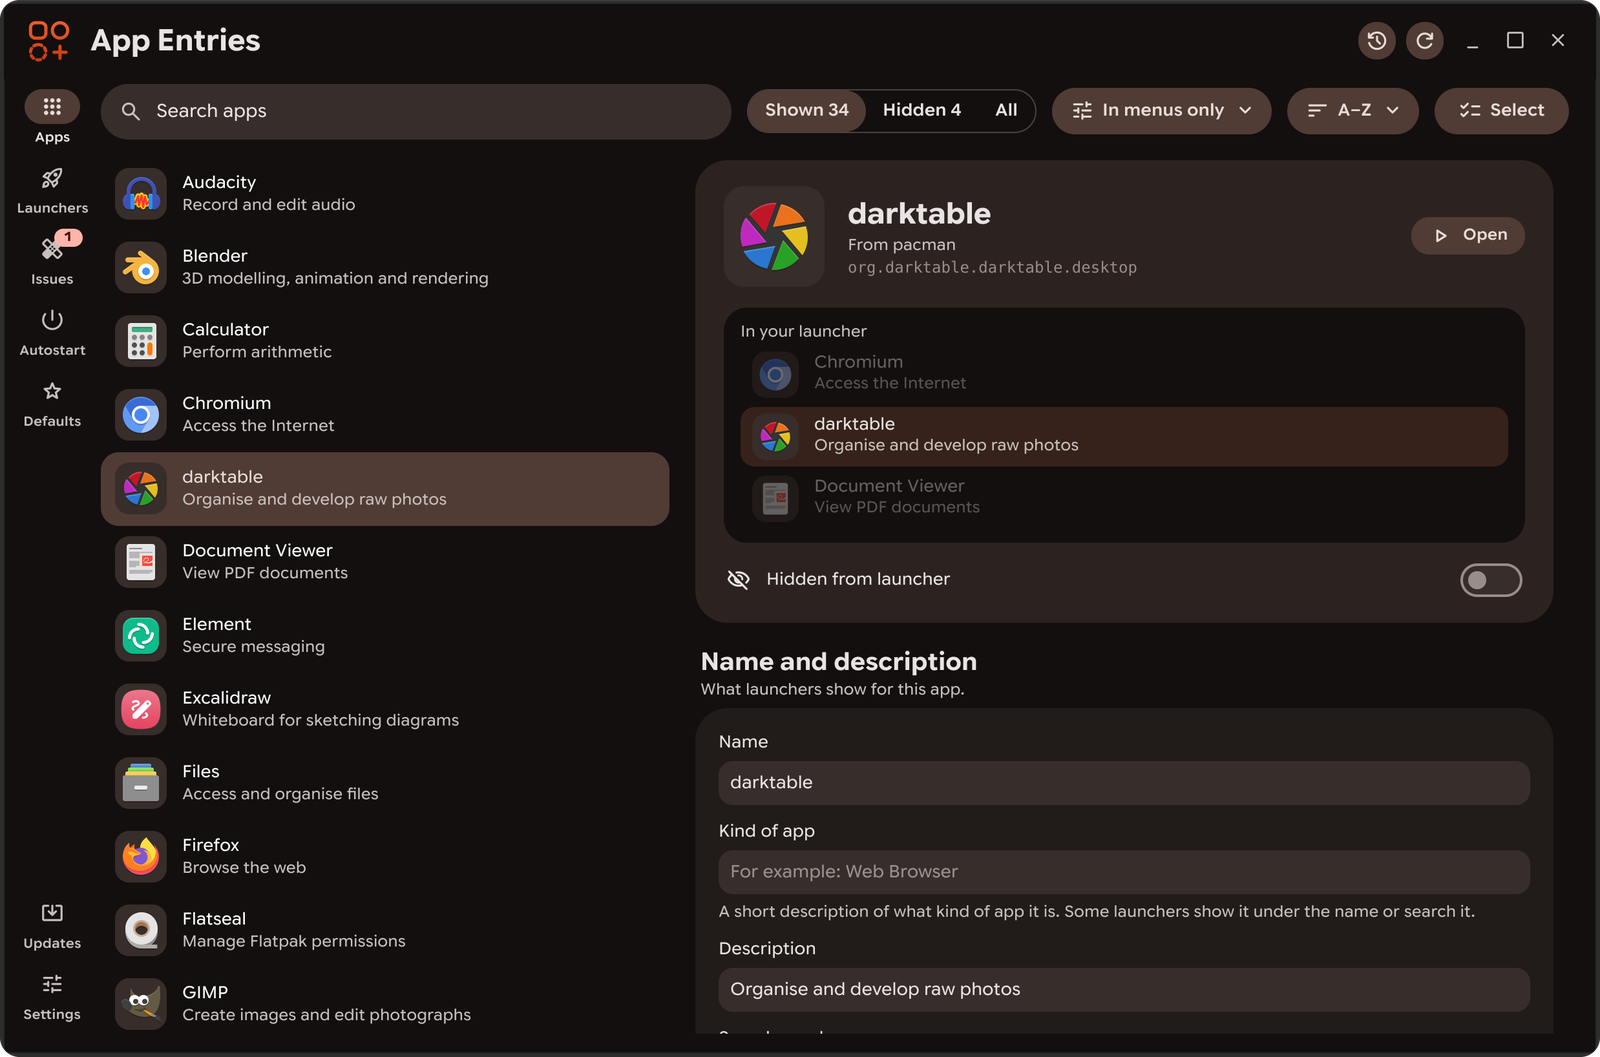
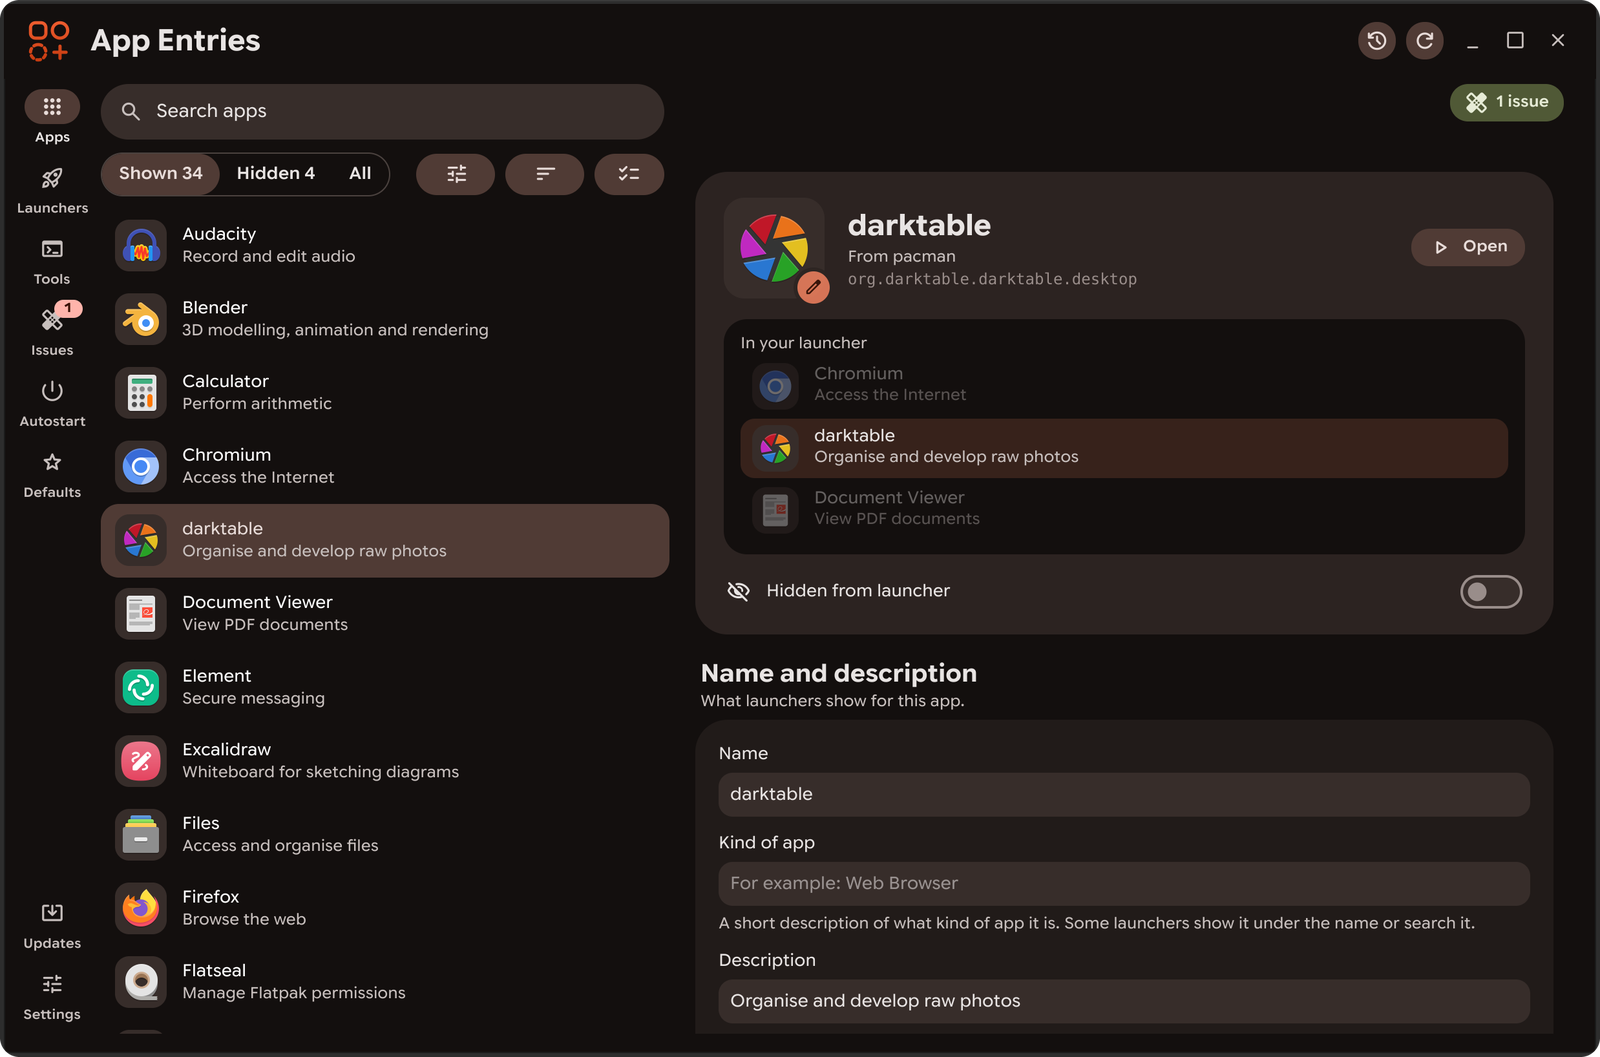
Fresh screenshots, and new ones for Installation, Tools and App updates
Retaken in the same dark scheme and accent as before, with the Tools rail
item and current pages; the README describes the new kinds of app,
uninstall and updates beside them.

Claude-Session: https://claude.ai/code/session_01DRNCbezi7H5oaU6kT7mK9G

Changed region(s): [[0.0, 0.0624, 1.0, 0.9991]]

diff --git a/README.md b/README.md
@@ -39,7 +39,8 @@
 - Every installed app in one searchable list: system packages, Flatpak, Snap, AppImage, Steam and your own launchers. **Shown**, **Hidden** or **All**, so hundreds of hidden apps stay out of the way; a Filter menu narrows it to one source, customised or new apps.
 - Hide or show an app with the eye on its row, Space, or the switch on its page. Hidden apps still open links and files, and stay in "Open With".
 - **Each app has a page** beside the list: how it looks in your launcher, its name, icon and command (edited right there, with Save and Discard), the file types it opens, whether it starts at login, helper apps, the changes made to it with Undo, and Uninstall. Unsaved edits are kept while you look at other apps.
-- **Installation details** at the bottom of each app's page: its package, version and where it came from (your distribution, the AUR, a PPA, Flathub, a Snap channel), when it was installed, whether it was installed directly or for another package (and by whom, where apt records it), who it's installed for and its size. Dependencies open to show what it needs, what needs it and optional extras. For an AppImage or a program no package owns: its file, the web address it was downloaded from, and the GitHub project its updates come from. The page opens at once and these fill in from the background; answers are remembered until something is installed or removed.
+- **Installation details** at the bottom of each app's page: its package, version and where it came from (your distribution, the AUR, a PPA, Flathub, a Snap channel), when it was installed, whether it was installed directly or for another package (and by whom, where apt records it), who it's installed for and its size. Dependencies open to show what it needs, what needs it and optional extras. For an AppImage or a program no package owns: its file, the web address it was downloaded from, and the GitHub project its updates come from. Launchers made with App Entries, games from Heroic, Lutris and Bottles, Waydroid's Android apps, JetBrains Toolbox apps and Windows programs run with Wine are each described as what they are, with real folder sizes. For a Flatpak, **what it can reach** (files, network, devices…) in plain words, with Flatseal a click away. The page opens at once and these fill in from the background; answers are remembered until something is installed or removed.<br>
+  <a href="docs/screenshots/installation.png"><img alt="The Installation section of an AppImage's page: its file, where it was downloaded from, and its GitHub project with a newer version ready to update" src="docs/screenshots/installation.png" width="400"></a>
 - **Apps from GitHub**: an AppImage's page shows the GitHub project it comes from (from its update information or where it was downloaded), or you can link one. Check for updates when you choose, see what's new, and update with one button: the new AppImage for your processor is downloaded and checked, the launcher points at it and the old file goes to the Trash, with Undo.
   Apps installed with pip, pipx or uv, git copies of projects, and .deb or .rpm packages downloaded from GitHub are recognised too, with an update run in your terminal.
 - **Select several** to hide, show, restore, restyle or uninstall many apps at once.
@@ -49,7 +50,7 @@
   <a href="docs/screenshots/issues.png"><img alt="Issues listing an entry whose program isn't installed, with a button to hide it" src="docs/screenshots/issues.png" width="400"></a>
 - Apps you edited and then uninstalled some other way are hidden from menus with your edits kept, and the edits apply again if you reinstall. Both are options in Issues, each done once with Undo.
 - When the list is empty because of the search or the filters, it says how many apps they leave out, with a button to lift each. While searching Shown, it also says when hidden apps match.
-- **Uninstall…** for Flatpak, Snap, AppImage, Steam, Distrobox and system packages (pacman, apt, dnf, zypper, rpm-ostree, xbps, apk, eopkg, Portage and Nix). Before anything runs it shows what goes, which other apps and packages need it or go with it, whether it's a default app or starts at login, and the exact command. Data folders and advanced options (like removing what depends on it) are off unless you turn them on, with warnings. Commands that need a password run in your terminal; packages the system or your desktop needs are never offered. History keeps a Reinstall button.
+- **Uninstall…** for Flatpak, Snap, AppImage, Steam, Distrobox, system packages (pacman, apt, dnf, zypper, rpm-ostree, xbps, apk, eopkg, Portage and Nix), apps installed with pip, pipx or uv, app folders and git copies in your home folder, and games from Heroic, Lutris and other launchers (handed to the launcher, as with Steam). Before anything runs it shows what goes, which other apps and packages need it or go with it, whether it's a default app or starts at login, and the exact command. Data folders and advanced options (like removing what depends on it) are off unless you turn them on, with warnings. Commands that need a password run in your terminal; packages the system or your desktop needs are never offered. History keeps a Reinstall button.
 - **Helper apps…** shortcuts to the apps that set up what App Entries doesn't, opened on that app where they allow it: Flatseal, Warehouse, Gear Lever, ProtonUp-Qt, Protontricks, BoxBuddy, DistroShelf, GNOME Settings' and KDE's app permissions, your software centre and Steam. Missing ones show what they do and the Flathub command, run in your terminal only if you ask.
 
 <p align="center">
@@ -65,13 +66,15 @@
   <a href="docs/screenshots/icon-picker.png"><img alt="The icon picker: a grid of symbols, and the style, background, shading, size and colour of the tile" src="docs/screenshots/icon-picker.png" width="400"></a>
 
 **More**
-- **Tools**: command-line tools in your home folder without a menu entry (cargo, go install, pipx, uv, npm or files in ~/.local/bin), with version, size and project, and Update or Remove run in your terminal.
+- **Tools**: command-line tools in your home folder without a menu entry (cargo, go install, pipx, uv, npm or files in ~/.local/bin), with version, size and project, and Update or Remove run in your terminal.<br>
+  <a href="docs/screenshots/tools.png"><img alt="Tools: ripgrep and zellij from cargo, lazygit from go install, black from pipx and a script in ~/.local/bin, each with Update and Remove" src="docs/screenshots/tools.png" width="400"></a>
 - **Autostart**: turn login programs on and off, or add your own.
 - **Default apps**: choose which app opens links, email, folders, text, PDFs, pictures, videos, music and archives, for a whole kind or each type on its own. **By app** lists every file type one app opens (File types… on its page) and makes it the default for any of them. Uses the standard `mimeapps.list`, and also updates Xfce's and KDE's own browser settings.<br>
   <a href="docs/screenshots/default-apps.png"><img alt="Default apps: web browser, email, files, text, PDFs, pictures, videos and music, each with the app that opens them" src="docs/screenshots/default-apps.png" width="400"></a>
 - **History** of every change, each with Undo, kept between sessions.
 - **Export / Import** your changes to set up another computer.
-- **Updates**: App Entries' own updates with one button, every app and tool from GitHub in one list to check and update (optionally once a day), and how many system, Flatpak and Snap updates are waiting, with the command run in your terminal.
+- **Updates**: App Entries' own updates with one button, every app and tool from GitHub in one list to check and update (optionally once a day), and how many system, Flatpak and Snap updates are waiting, with the command run in your terminal.<br>
+  <a href="docs/screenshots/app-updates.png"><img alt="App updates: black and zellij up to date, newer versions of Joplin and lazygit with Update buttons" src="docs/screenshots/app-updates.png" width="400"></a>
 - A **command line** for scripts, and full keyboard and screen reader support.
 - Light and dark themes and a responsive layout. The accent can follow your desktop's (GNOME and KDE settings, or the colours Noctalia, matugen, wallust and other theme tools write for GTK apps), and palettes like Catppuccin, Gruvbox, Nord, Rosé Pine, Tokyo Night, Everforest and Solarized restyle the whole app.<br>
   <a href="docs/screenshots/settings.png"><img alt="Settings: accent colours with a colour picker, palettes, light or dark, and size" src="docs/screenshots/settings.png" width="400"></a>
